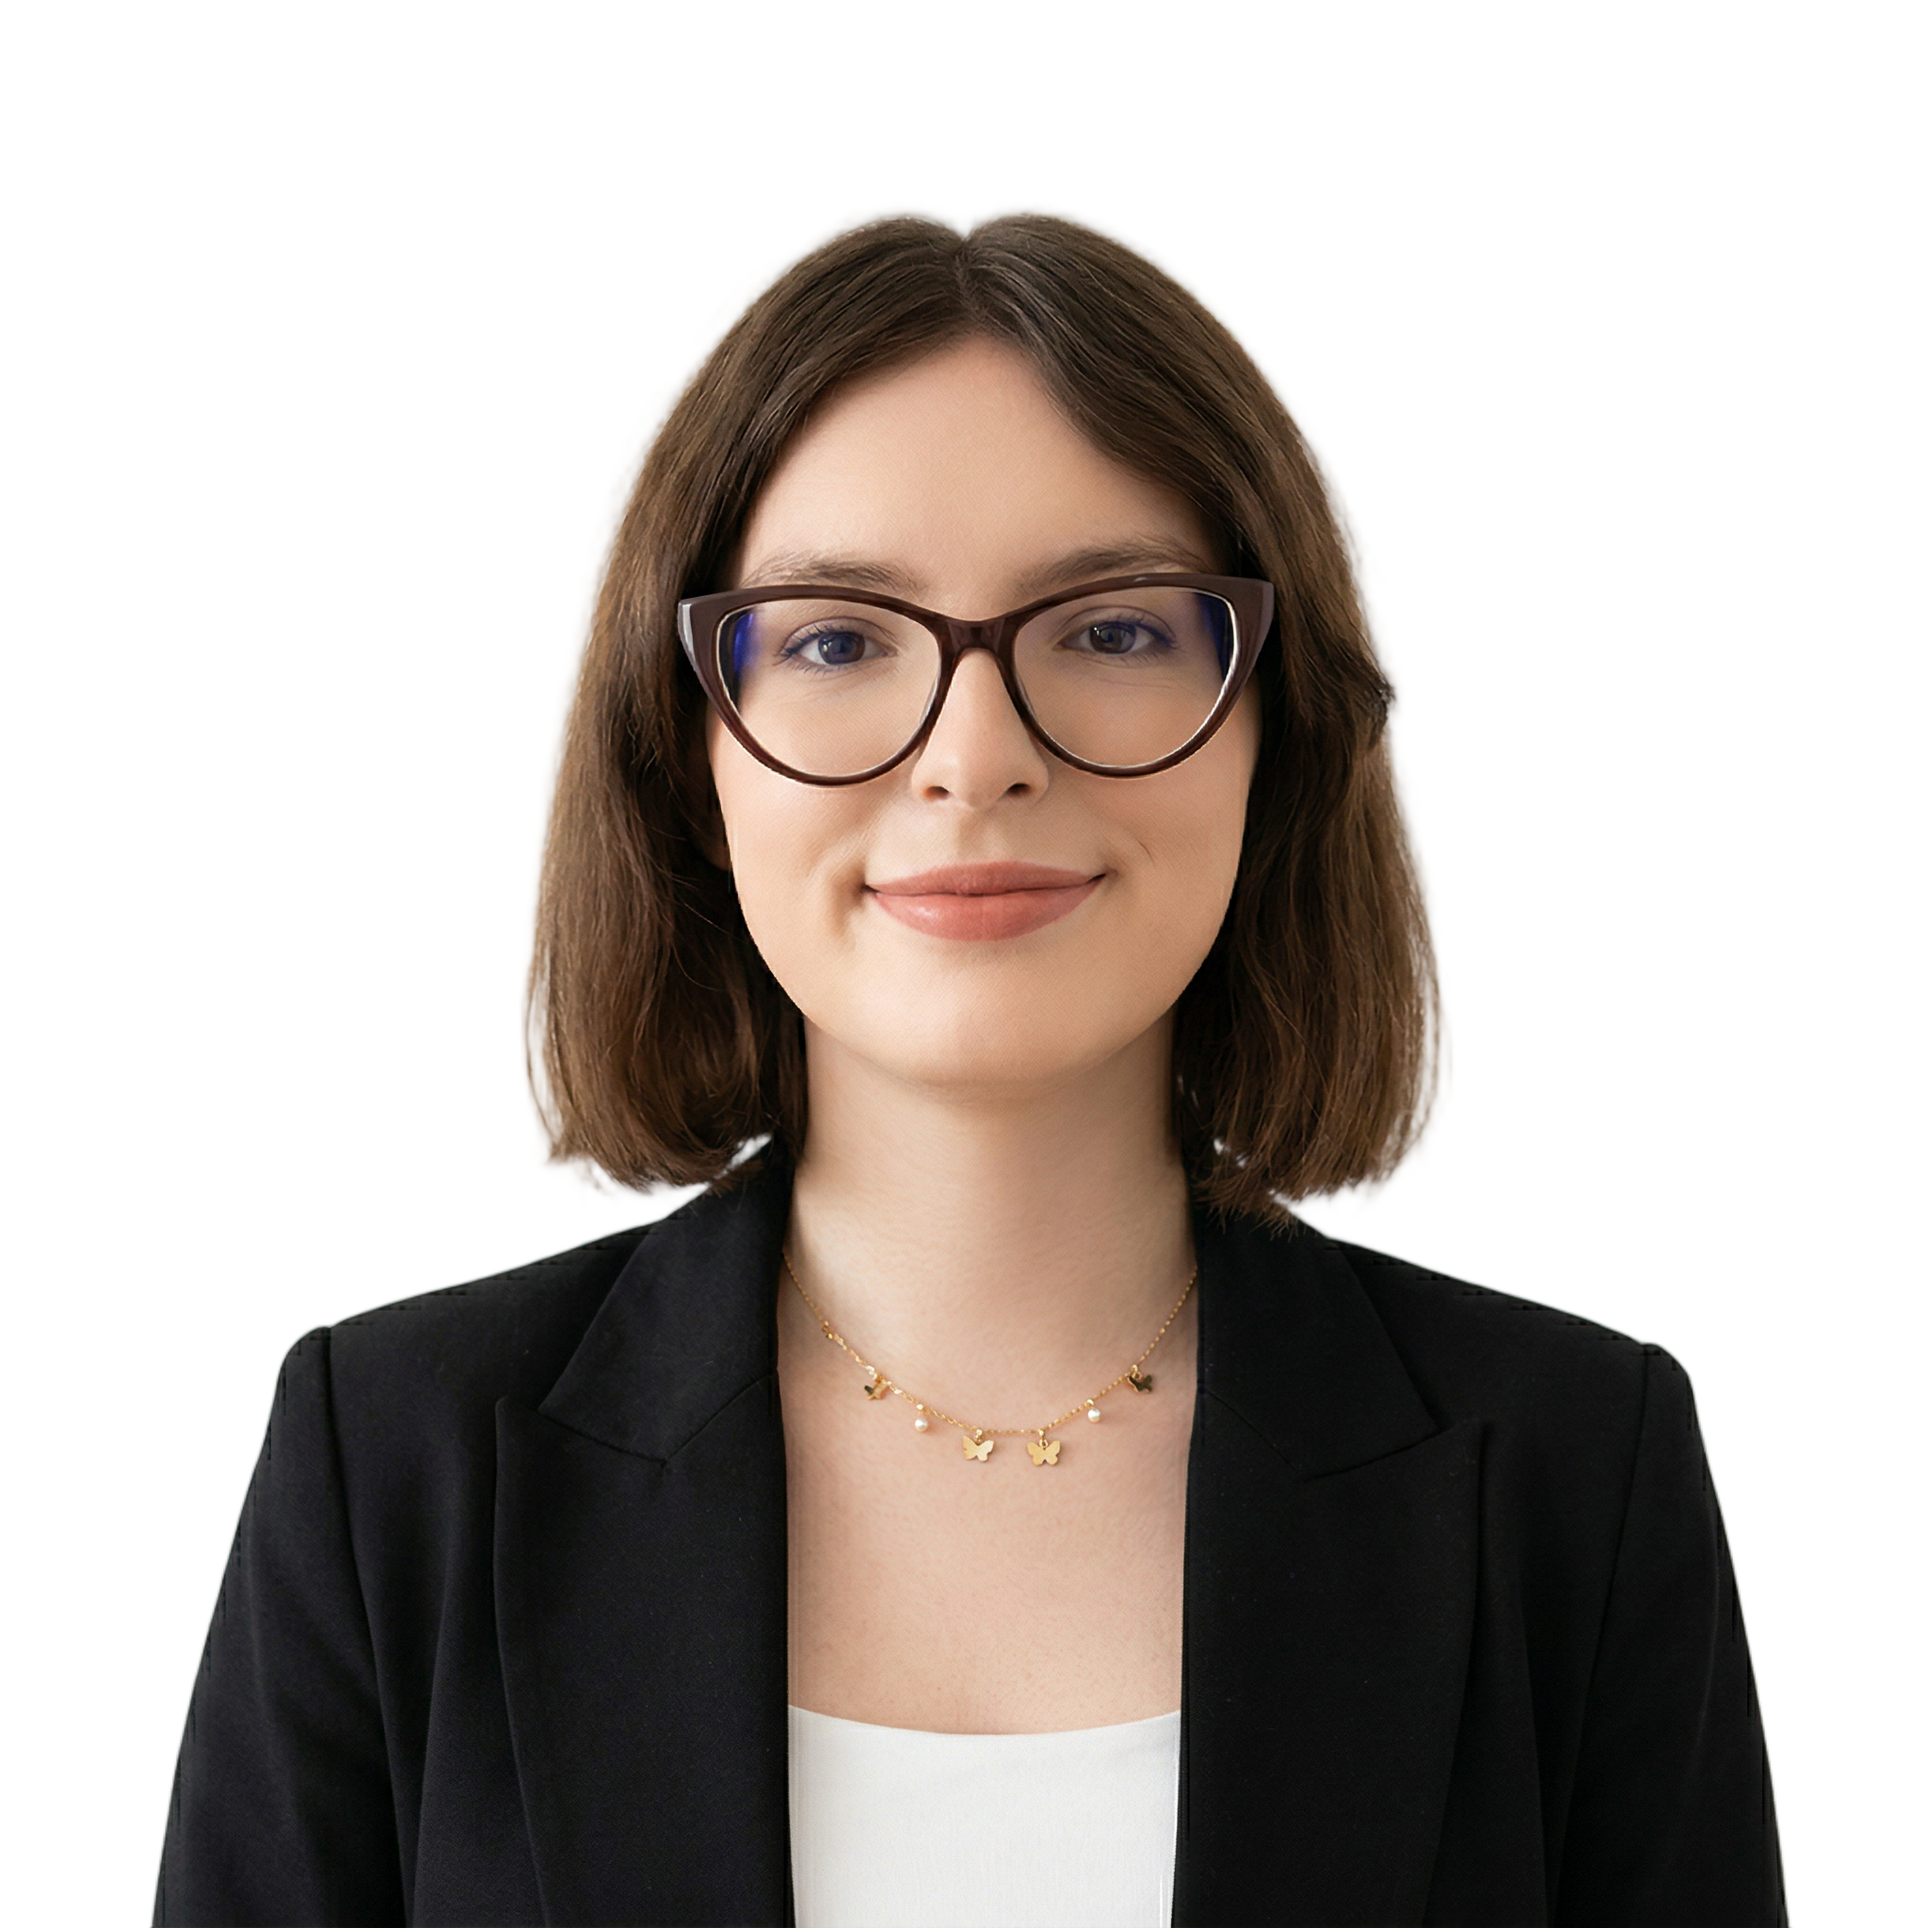
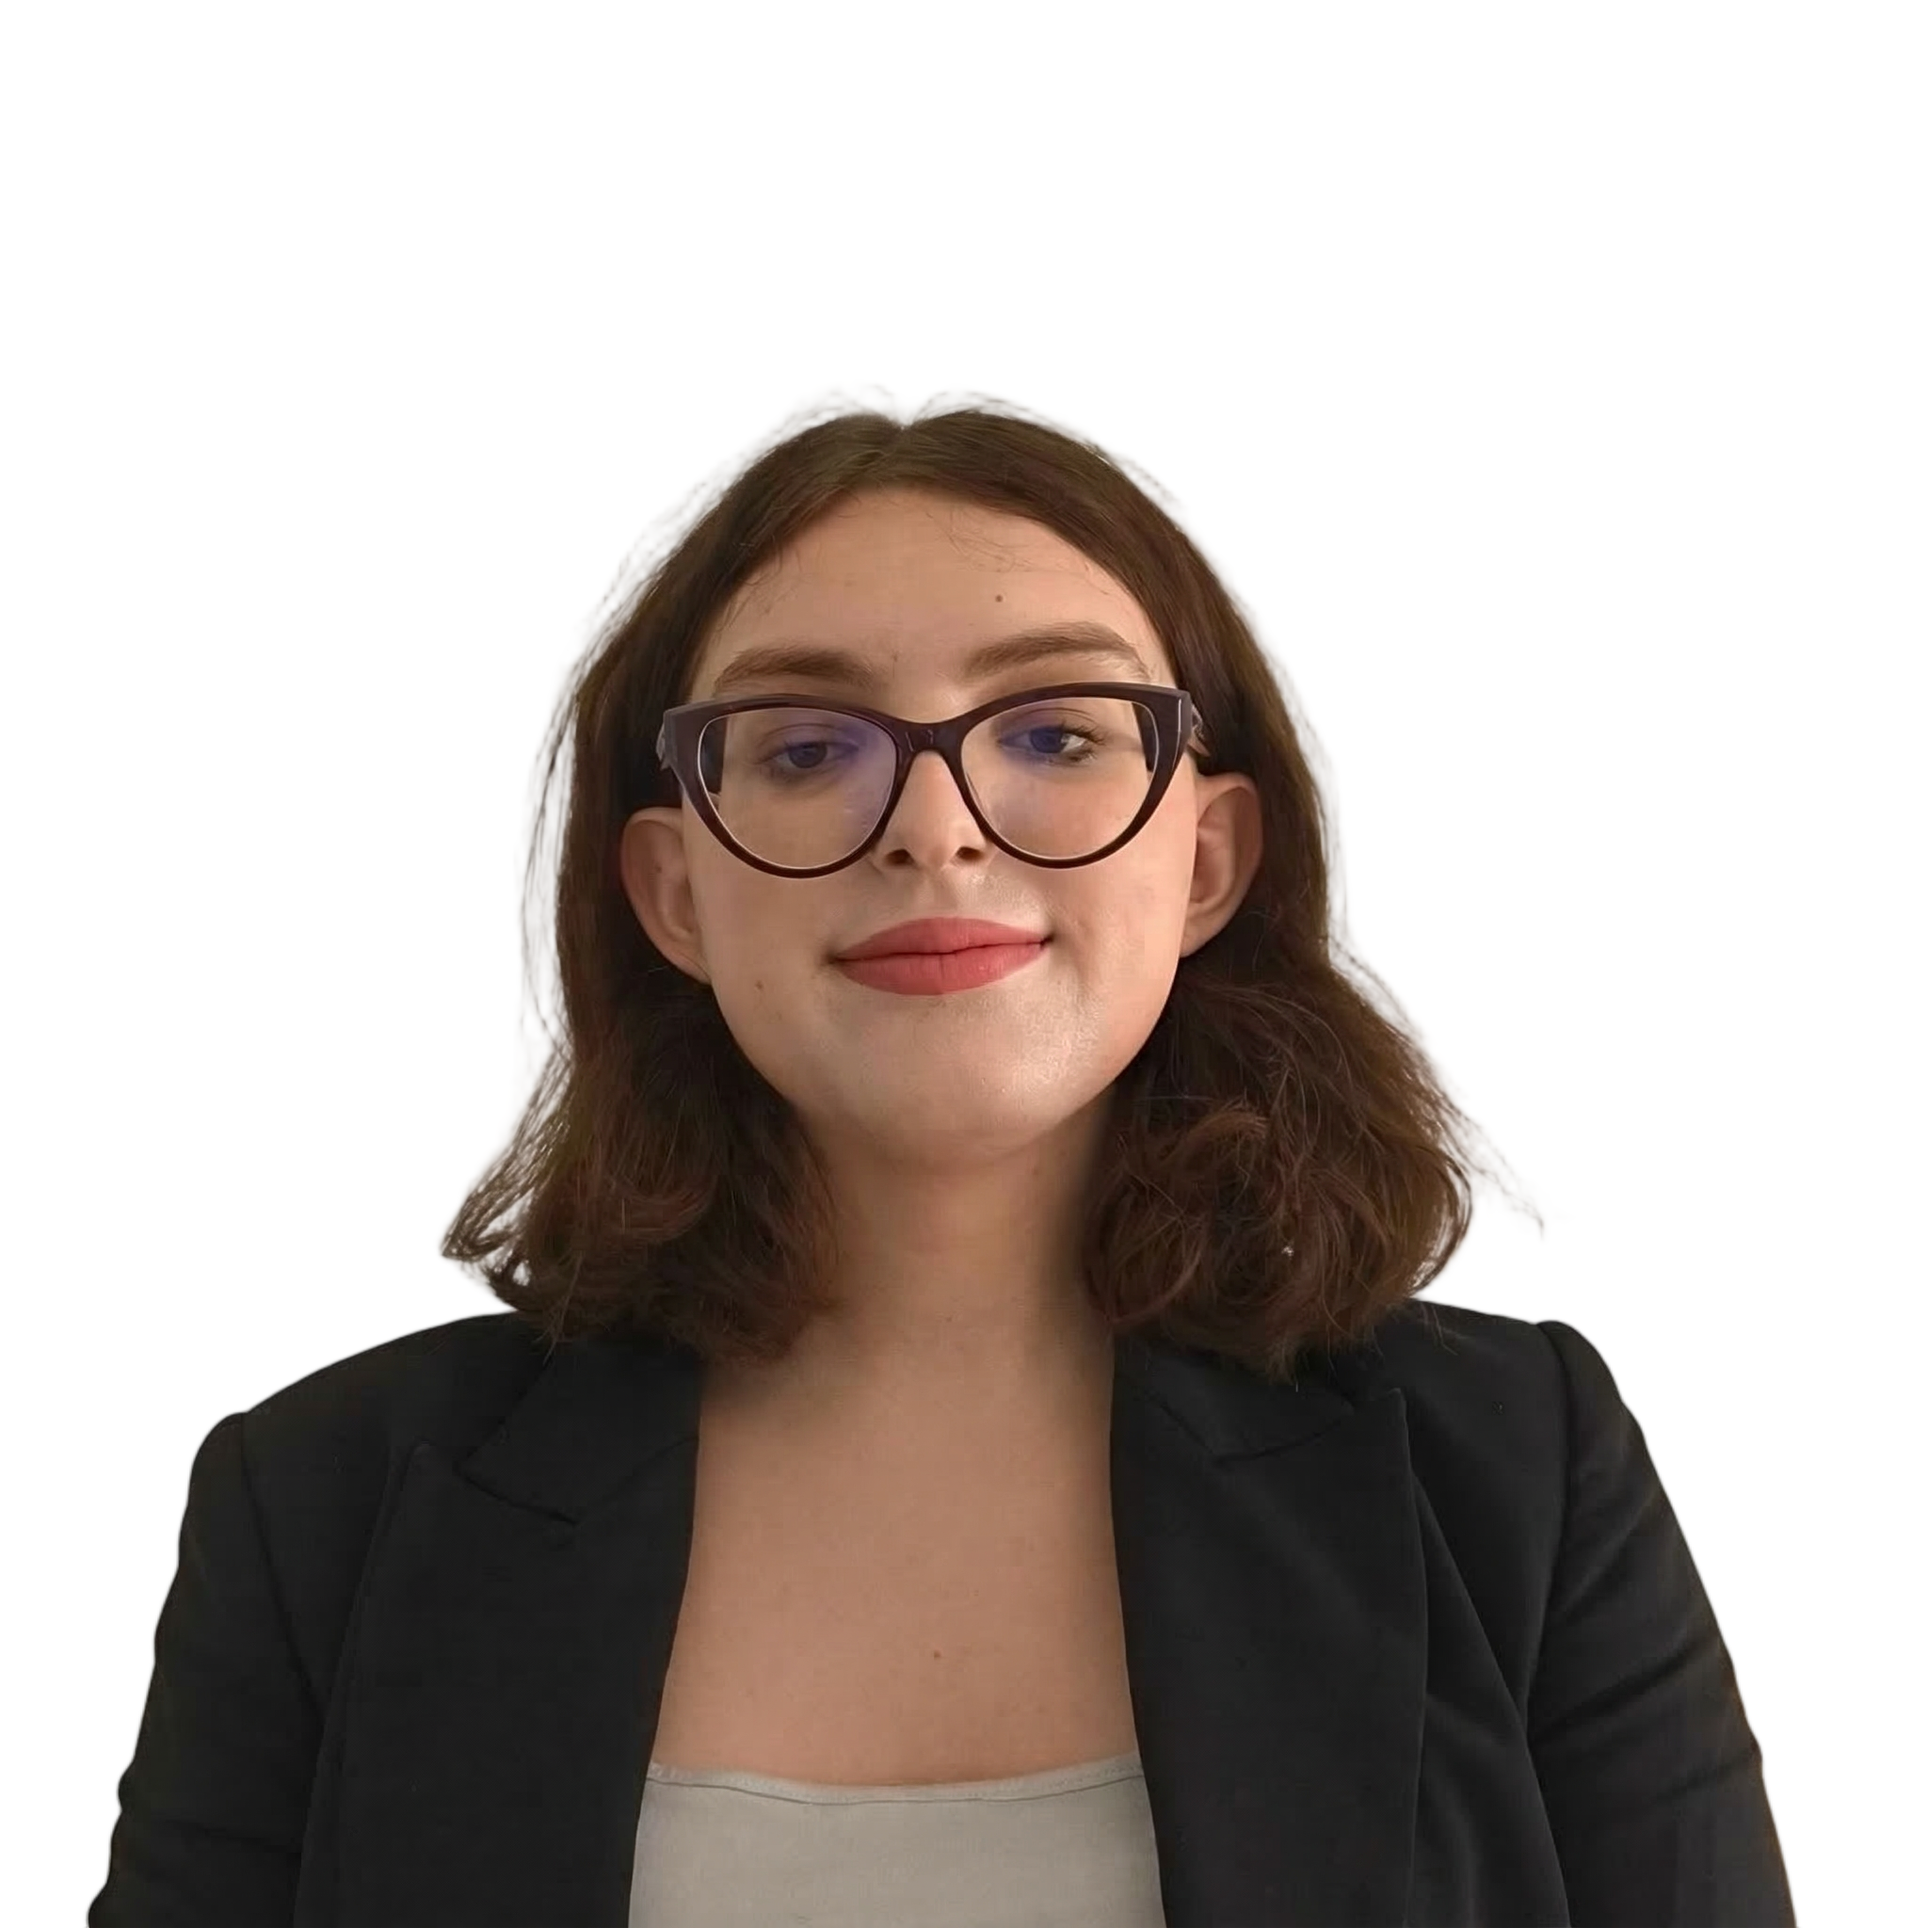
feat(speakers): enable Clelia Astra Bertelli (LlamaIndex) with processed headshot

diff --git a/app/data/speakers.ts b/app/data/speakers.ts
@@ -62,10 +62,10 @@ export const SPEAKERS = [
     building: 'The open source framework for AI agents, RAG, and document processing',
     initial: 'CB',
     accent: 'from-fuchsia-400/40 via-cyan-400/30 to-purple-500/40',
-    image: '/speakers/clelia_bertelli_fullbody_transparent_square.png',
+    image: '/speakers/clelia_bertelli_fullbody_square.png',
+    imageTransparent: '/speakers/clelia_bertelli_fullbody_transparent_square.png',
     imageAlt: 'Clelia Astra Bertelli headshot',
     logoAlt: 'LlamaIndex logo',
-    hidden: true,
   },
   {
     name: 'Clara Matos',
